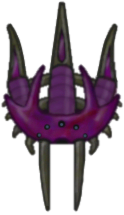
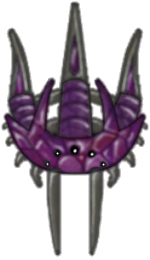
1.1u2 Alpha
Made some changes to sprites
Adjusted sniper unit stats

diff --git a/core/src/io/thebitspud/astroenvoys/entities/enemies/Sniper.java b/core/src/io/thebitspud/astroenvoys/entities/enemies/Sniper.java
@@ -19,22 +19,23 @@ public class Sniper extends Enemy {
 
 		r = new Random();
 		player = app.gameScreen.game.player;
-		cYOffset = 25;
+		cYOffset = 30;
 		setOrigin(getWidth() / 2, (getHeight() / 2 + cYOffset));
 		rotYPos = (int) (getY() + getOriginY());
 
-		xVel = r.nextInt(120) - 60;
-		yVel = (float) -80;
+		xVel = r.nextInt(60) + 90;
+		if(!r.nextBoolean()) xVel = -xVel;
+		yVel = (float) -50;
 
-		attackTimer = new JTimerUtil(2, true, true) {
+		attackTimer = new JTimerUtil(1.5, true, true) {
 			@Override
 			public void onActivation() {
-				final int yAdjust = -28;
+				final int yAdjust = -30;
 				double hyp = Math.hypot(dx, dy + yAdjust);
-				float scale = (float) (1600 / hyp);
+				float scale = (float) (1800 / hyp);
 				final float xv = dx * scale, yv = (dy + yAdjust) * scale;
 
-				app.gameScreen.game.addProjectile((int) getX() + 42, rotYPos + yAdjust, xv, yv,
+				app.gameScreen.game.addProjectile((int) getX() + 55, rotYPos + yAdjust, xv, yv,
 						EntityID.HEAVY_PLASMA_SHOT);
 			}
 		};

diff --git a/core/src/io/thebitspud/astroenvoys/levels/Level_Test.java b/core/src/io/thebitspud/astroenvoys/levels/Level_Test.java
@@ -34,6 +34,7 @@ public class Level_Test extends Level {
 		final int y = Gdx.graphics.getHeight();
 		final int scrWidth = Gdx.graphics.getWidth(); // screen width
 
-		game.spawnEnemy(r.nextInt(scrWidth - 100), y, EntityID.AZ_SNIPER);
+		game.spawnEnemy(r.nextInt(scrWidth - 100), y, EntityID.AZ_RAIDER);
+		game.spawnEnemy(r.nextInt(scrWidth - 150), y, EntityID.AZ_SNIPER);
 	}
 }
